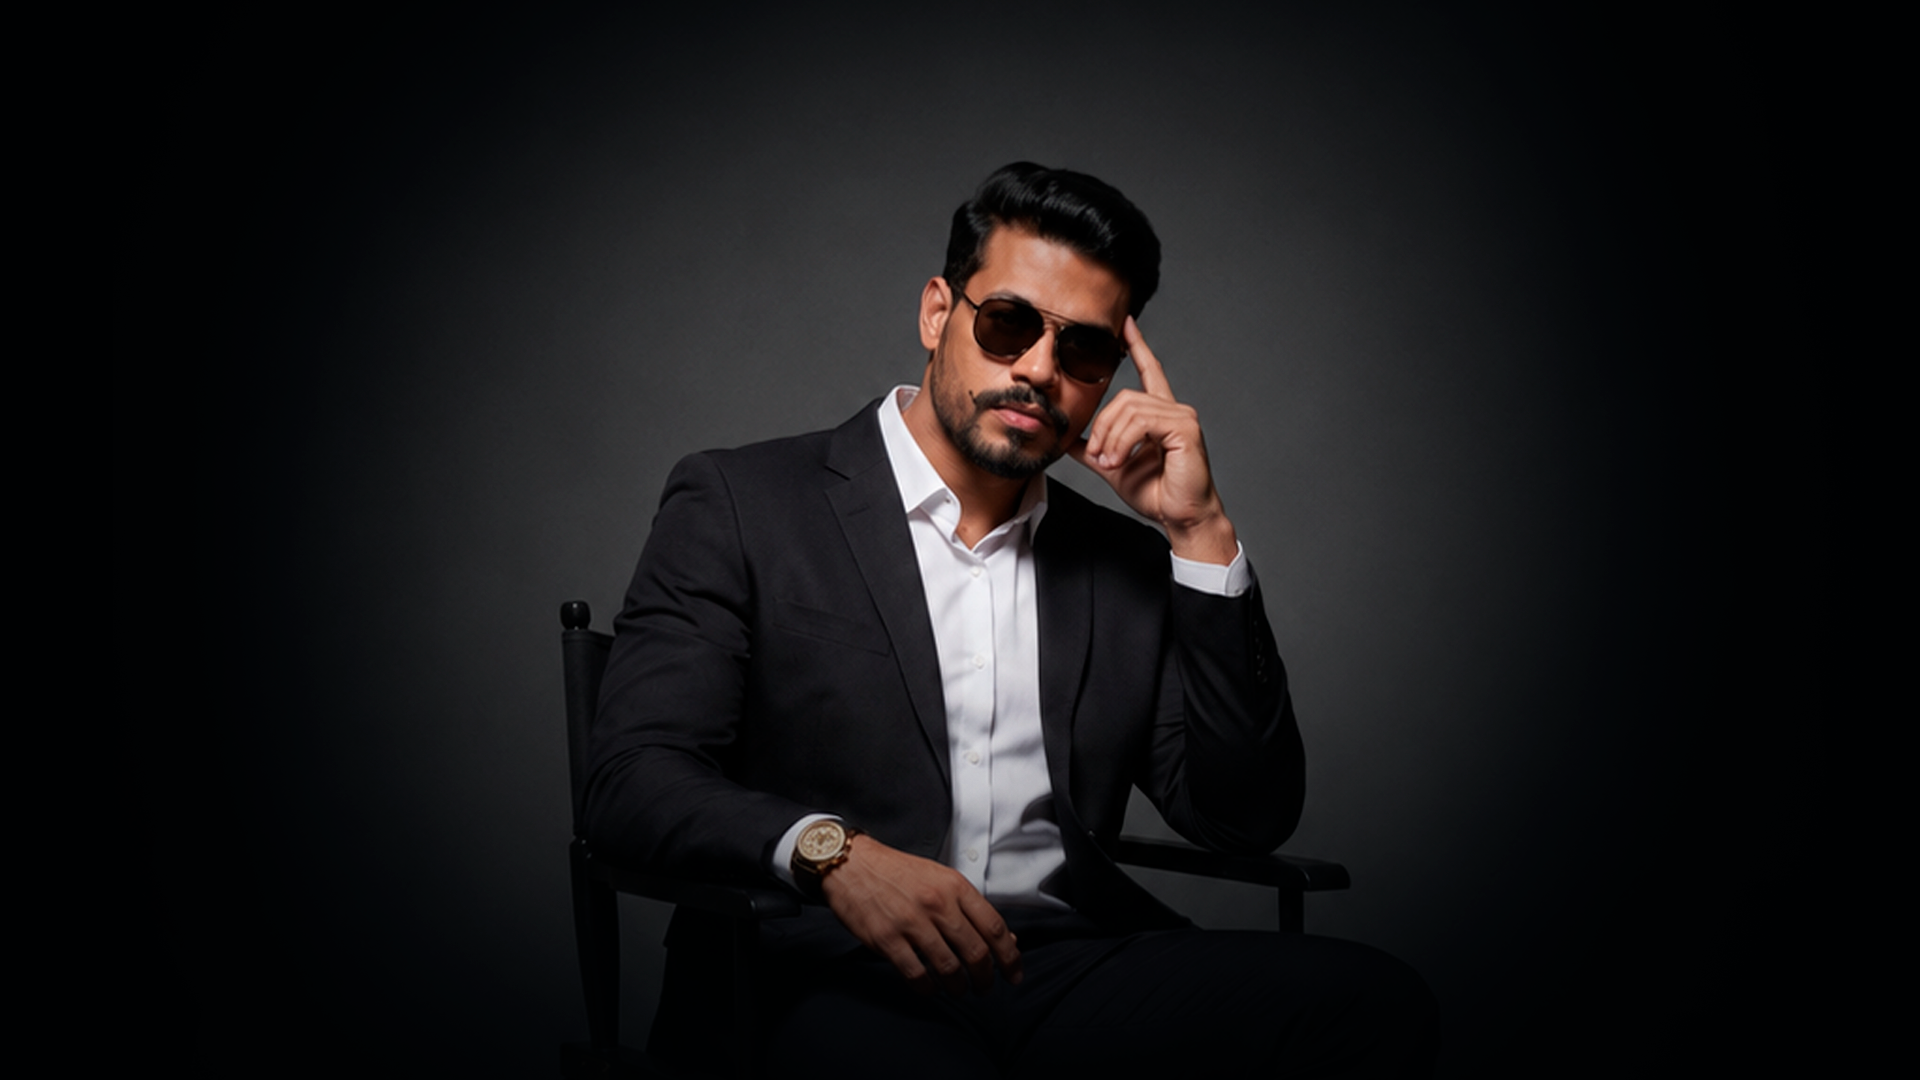
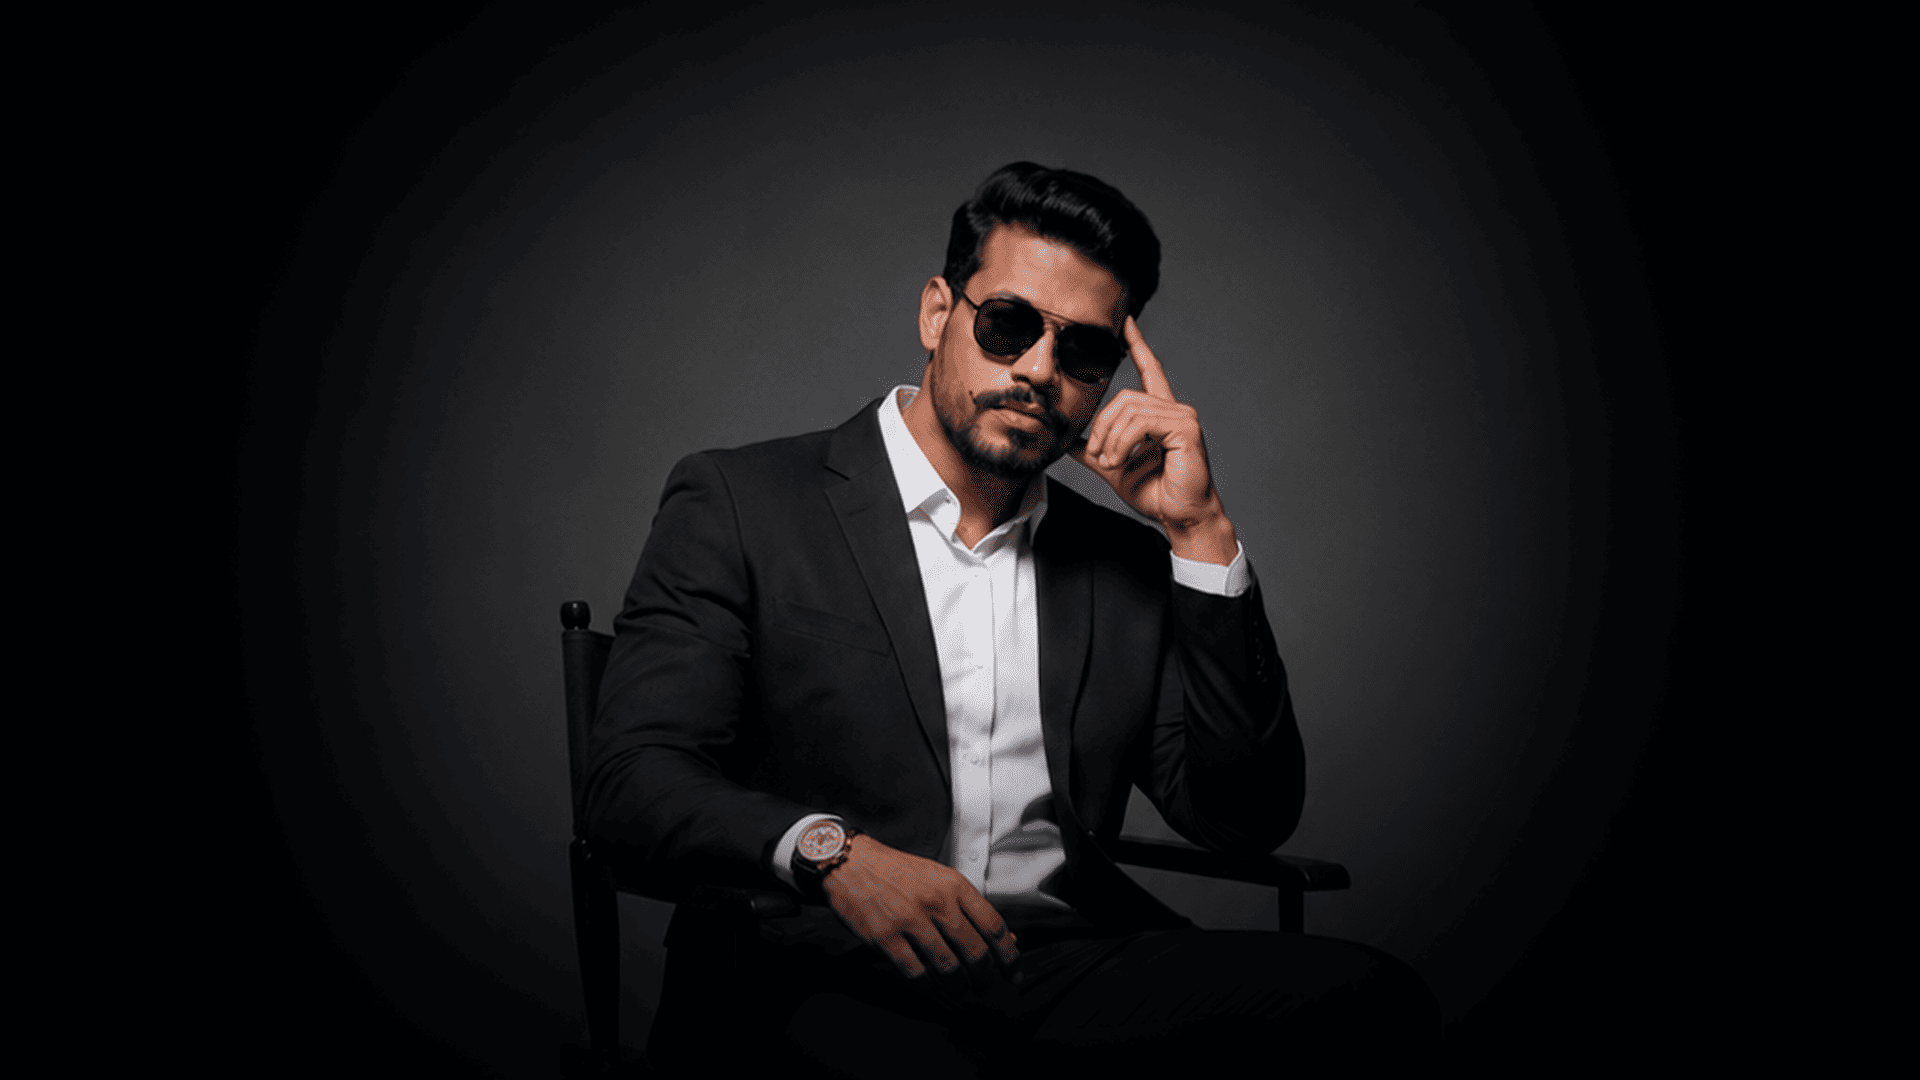
Add files via upload

diff --git a/index.html b/index.html
@@ -592,9 +592,6 @@
       <a href="https://www.youtube.com/c/EricoTheophilo" target="_blank" rel="noopener" aria-label="YouTube">
         <svg viewBox="0 0 24 24"><path d="M23 7.5s-.2-1.6-.9-2.3c-.9-.9-1.8-.9-2.3-1C17.2 4 12 4 12 4h0s-5.2 0-7.8.2c-.5.1-1.5.1-2.3 1C1.2 5.9 1 7.5 1 7.5S.8 9.4.8 11.3v1.4C.8 14.6 1 16.5 1 16.5s.2 1.6.9 2.3c.9.9 2 .9 2.5 1 1.8.2 7.6.2 7.6.2s5.2 0 7.8-.2c.5-.1 1.4-.1 2.3-1 .7-.7.9-2.3.9-2.3s.2-1.9.2-3.8v-1.4c0-1.9-.2-3.8-.2-3.8zM9.8 15V9.2l6.3 2.9L9.8 15z"/></svg>
       </a>
-      <a href="https://wa.me/5511999999999" target="_blank" rel="noopener" aria-label="WhatsApp">
-        <svg viewBox="0 0 24 24"><path d="M12 2a9.9 9.9 0 0 0-8.5 15l-1.4 5.1 5.2-1.4A9.9 9.9 0 1 0 12 2zm0 1.8a8.1 8.1 0 1 1-4.1 15.1l-.3-.2-3.1.8.8-3-.2-.3A8.1 8.1 0 0 1 12 3.8zm-3.4 4c-.2 0-.5.1-.7.4-.2.3-.9.9-.9 2.1s.9 2.4 1.1 2.6c.1.2 1.8 2.8 4.4 3.8 2.2.9 2.6.7 3.1.6.5 0 1.5-.6 1.7-1.2.2-.6.2-1.1.1-1.2 0-.1-.2-.2-.5-.3l-1.7-.8c-.2-.1-.4-.1-.6.1l-.8 1c-.1.2-.3.2-.5.1-.3-.1-1.2-.4-2.2-1.4-.8-.7-1.4-1.6-1.5-1.9-.2-.3 0-.4.1-.5l.4-.5c.1-.2.2-.3.3-.5.1-.2 0-.4 0-.5l-.7-1.7c-.2-.5-.4-.4-.5-.4h-.6z"/></svg>
-      </a>
     </nav>
   </div>
   <p class="copyright">&copy; 2026 Erico Theophilo. Todos os direitos reservados.</p>
@@ -616,7 +613,7 @@
    alt: descrição da imagem (acessibilidade e SEO)
    ============================================================ */
 const CARDS = [
-  { img: "img/card-1.png", url: "https://exemplo.com/1", alt: "Descreva o card 1" },
+  { img: "img/card-1.png", url: "https://api.whatsapp.com/send?phone=5511971690937&text=Ol%C3%A1%20Erico%2C%20quero%20saber%20mais%20sobre%20os%2012Vs", alt: "Falar sobre os 12Vs no WhatsApp" },
   { img: "img/card-2.png", url: "https://exemplo.com/2", alt: "Descreva o card 2" },
   { img: "img/card-3.png", url: "https://exemplo.com/3", alt: "Descreva o card 3" },
   { img: "img/card-4.png", url: "https://exemplo.com/4", alt: "Descreva o card 4" },